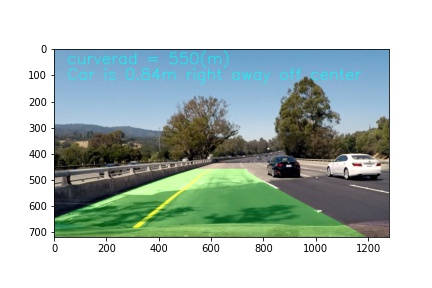
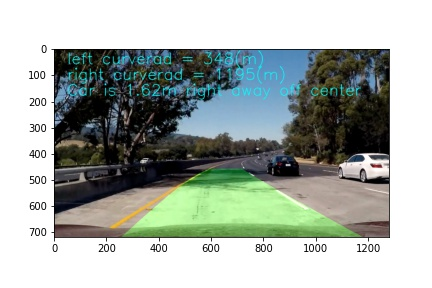
modified README and image_pitfall.jpg

diff --git a/README.md b/README.md
@@ -177,7 +177,8 @@ Here's a [link to my video result](./project_video_out.mp4)
 Here I'll talk about the approach I took, what techniques I used, what worked and why, where the pipeline might fail and how I might improve it if I were going to pursue this project further.  
 
 Pitfalls:
-* Cannot recognize the lanes in some special cases in project videos and especially in challeng videos:  
+* Cannot recognize the lanes in some special cases in project videos and especially in challeng videos. So the lane of previous recognized positions were used
+
 ![alt text][image7]
 
 Possible solutions are: 
@@ -187,6 +188,6 @@ Possible solutions are:
 
 * Reject certain recognized line if the new line has a big position change repect to the last line.
 
-I used the averaging method and averaged over 15 points and found it approximately enough to resolve the problem. Rejecting apparently failing fitting could also be implemented in the future if needed.
+I used the averaging method and averaged over 15 points and rejected apparently failing fitting. There is also a backup plan to detect yellow and while color in HSV color space with opencv api, if this is needed.
 
  
